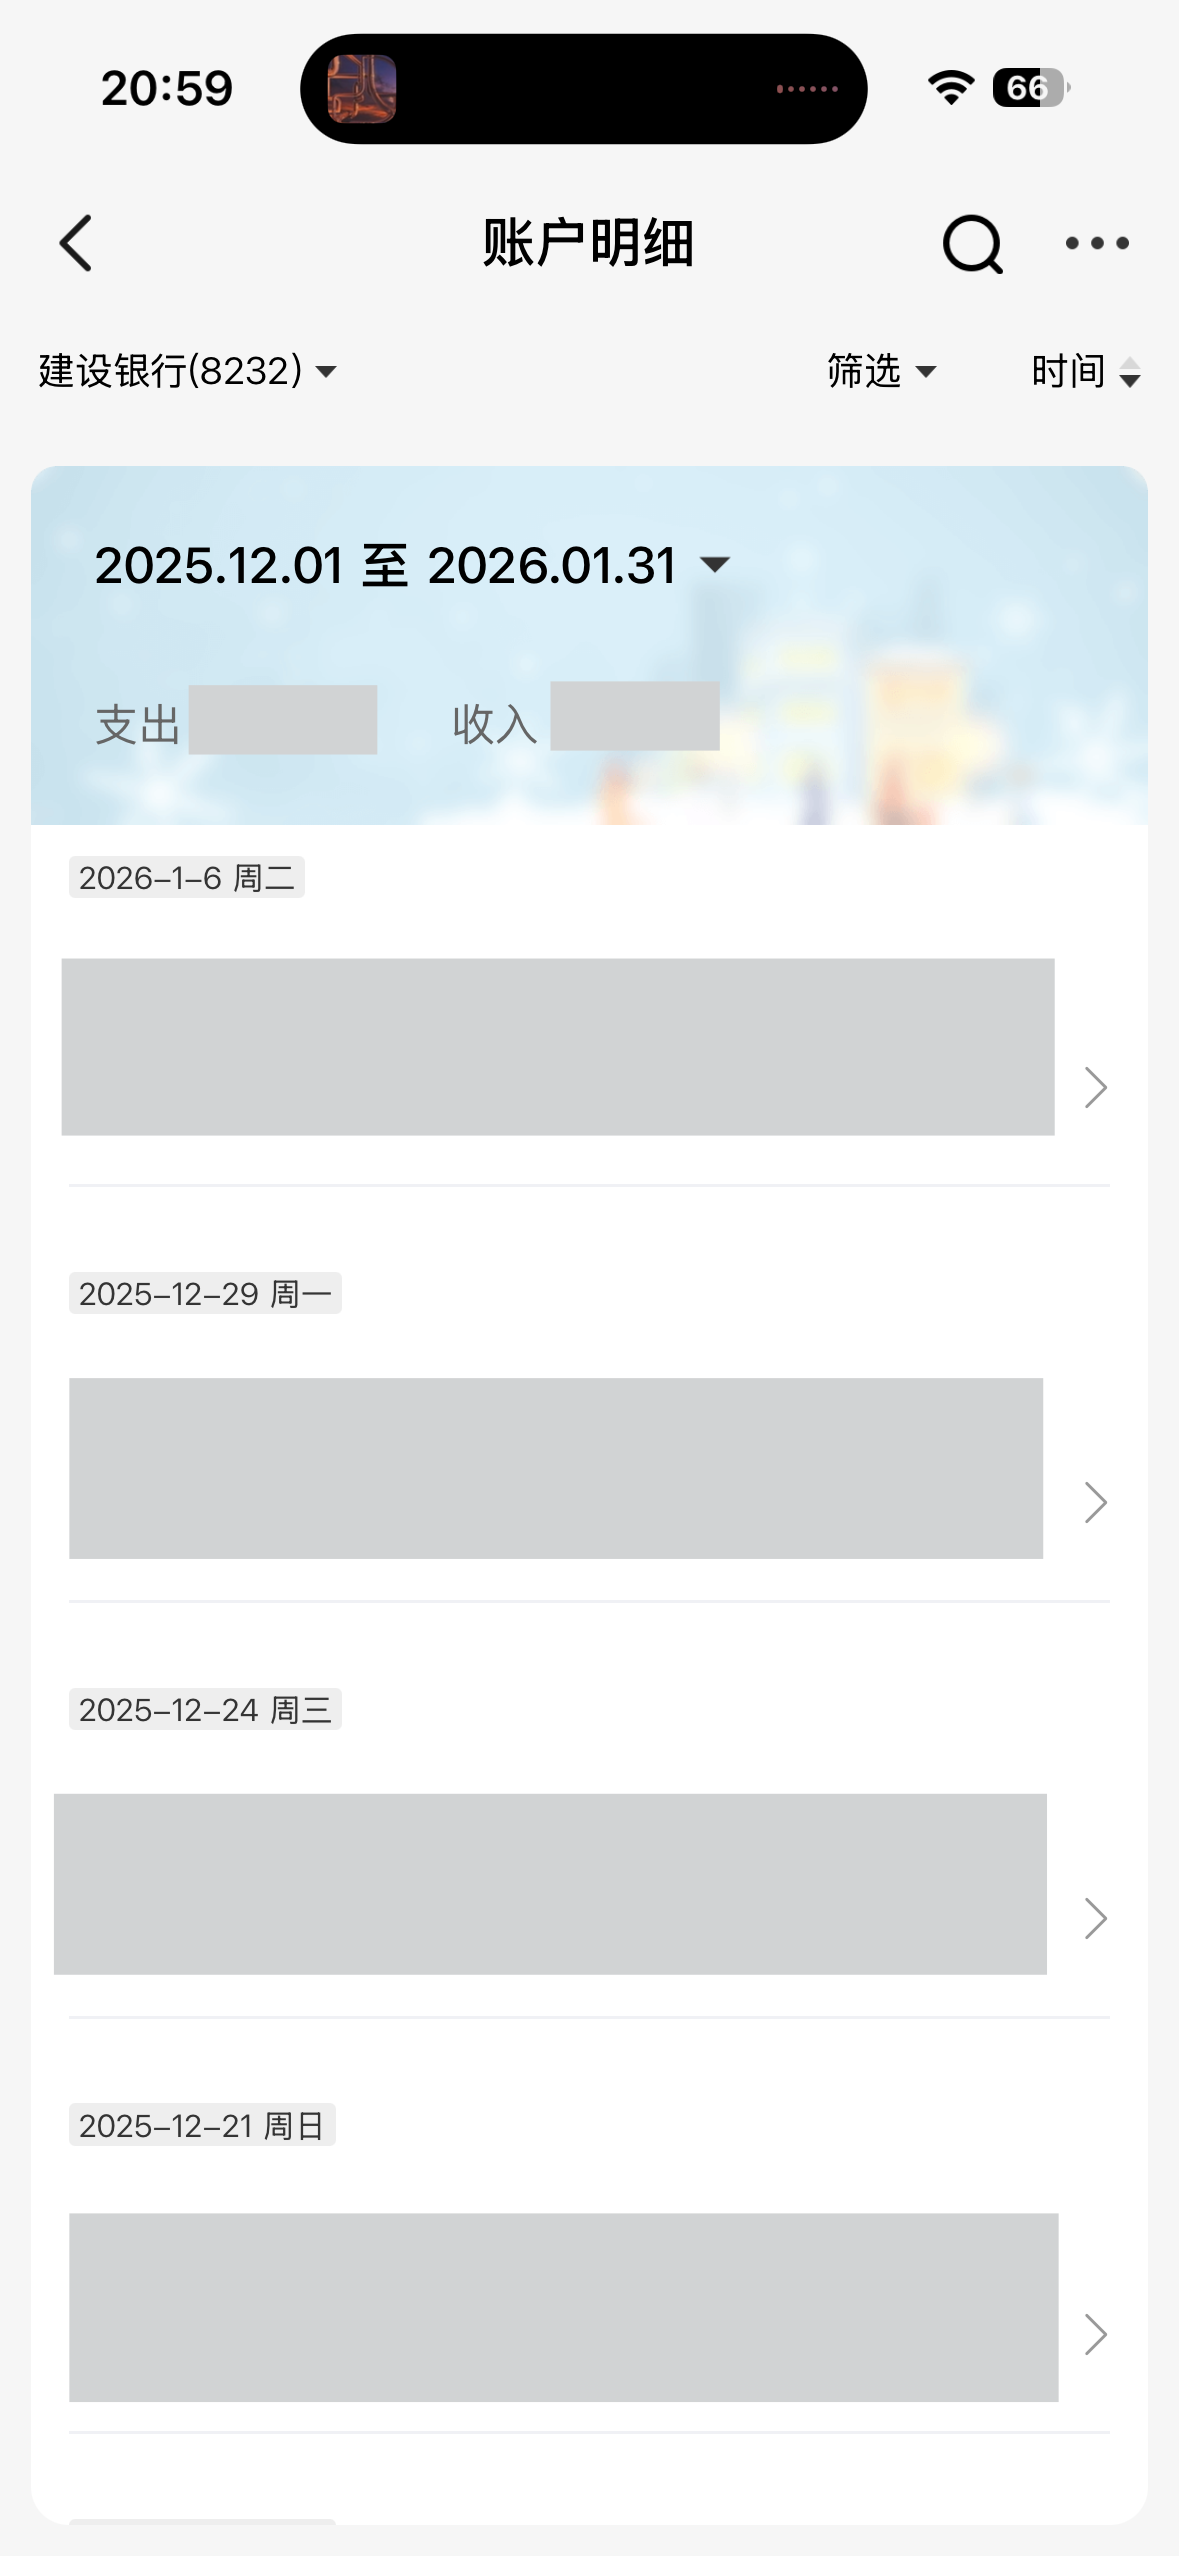
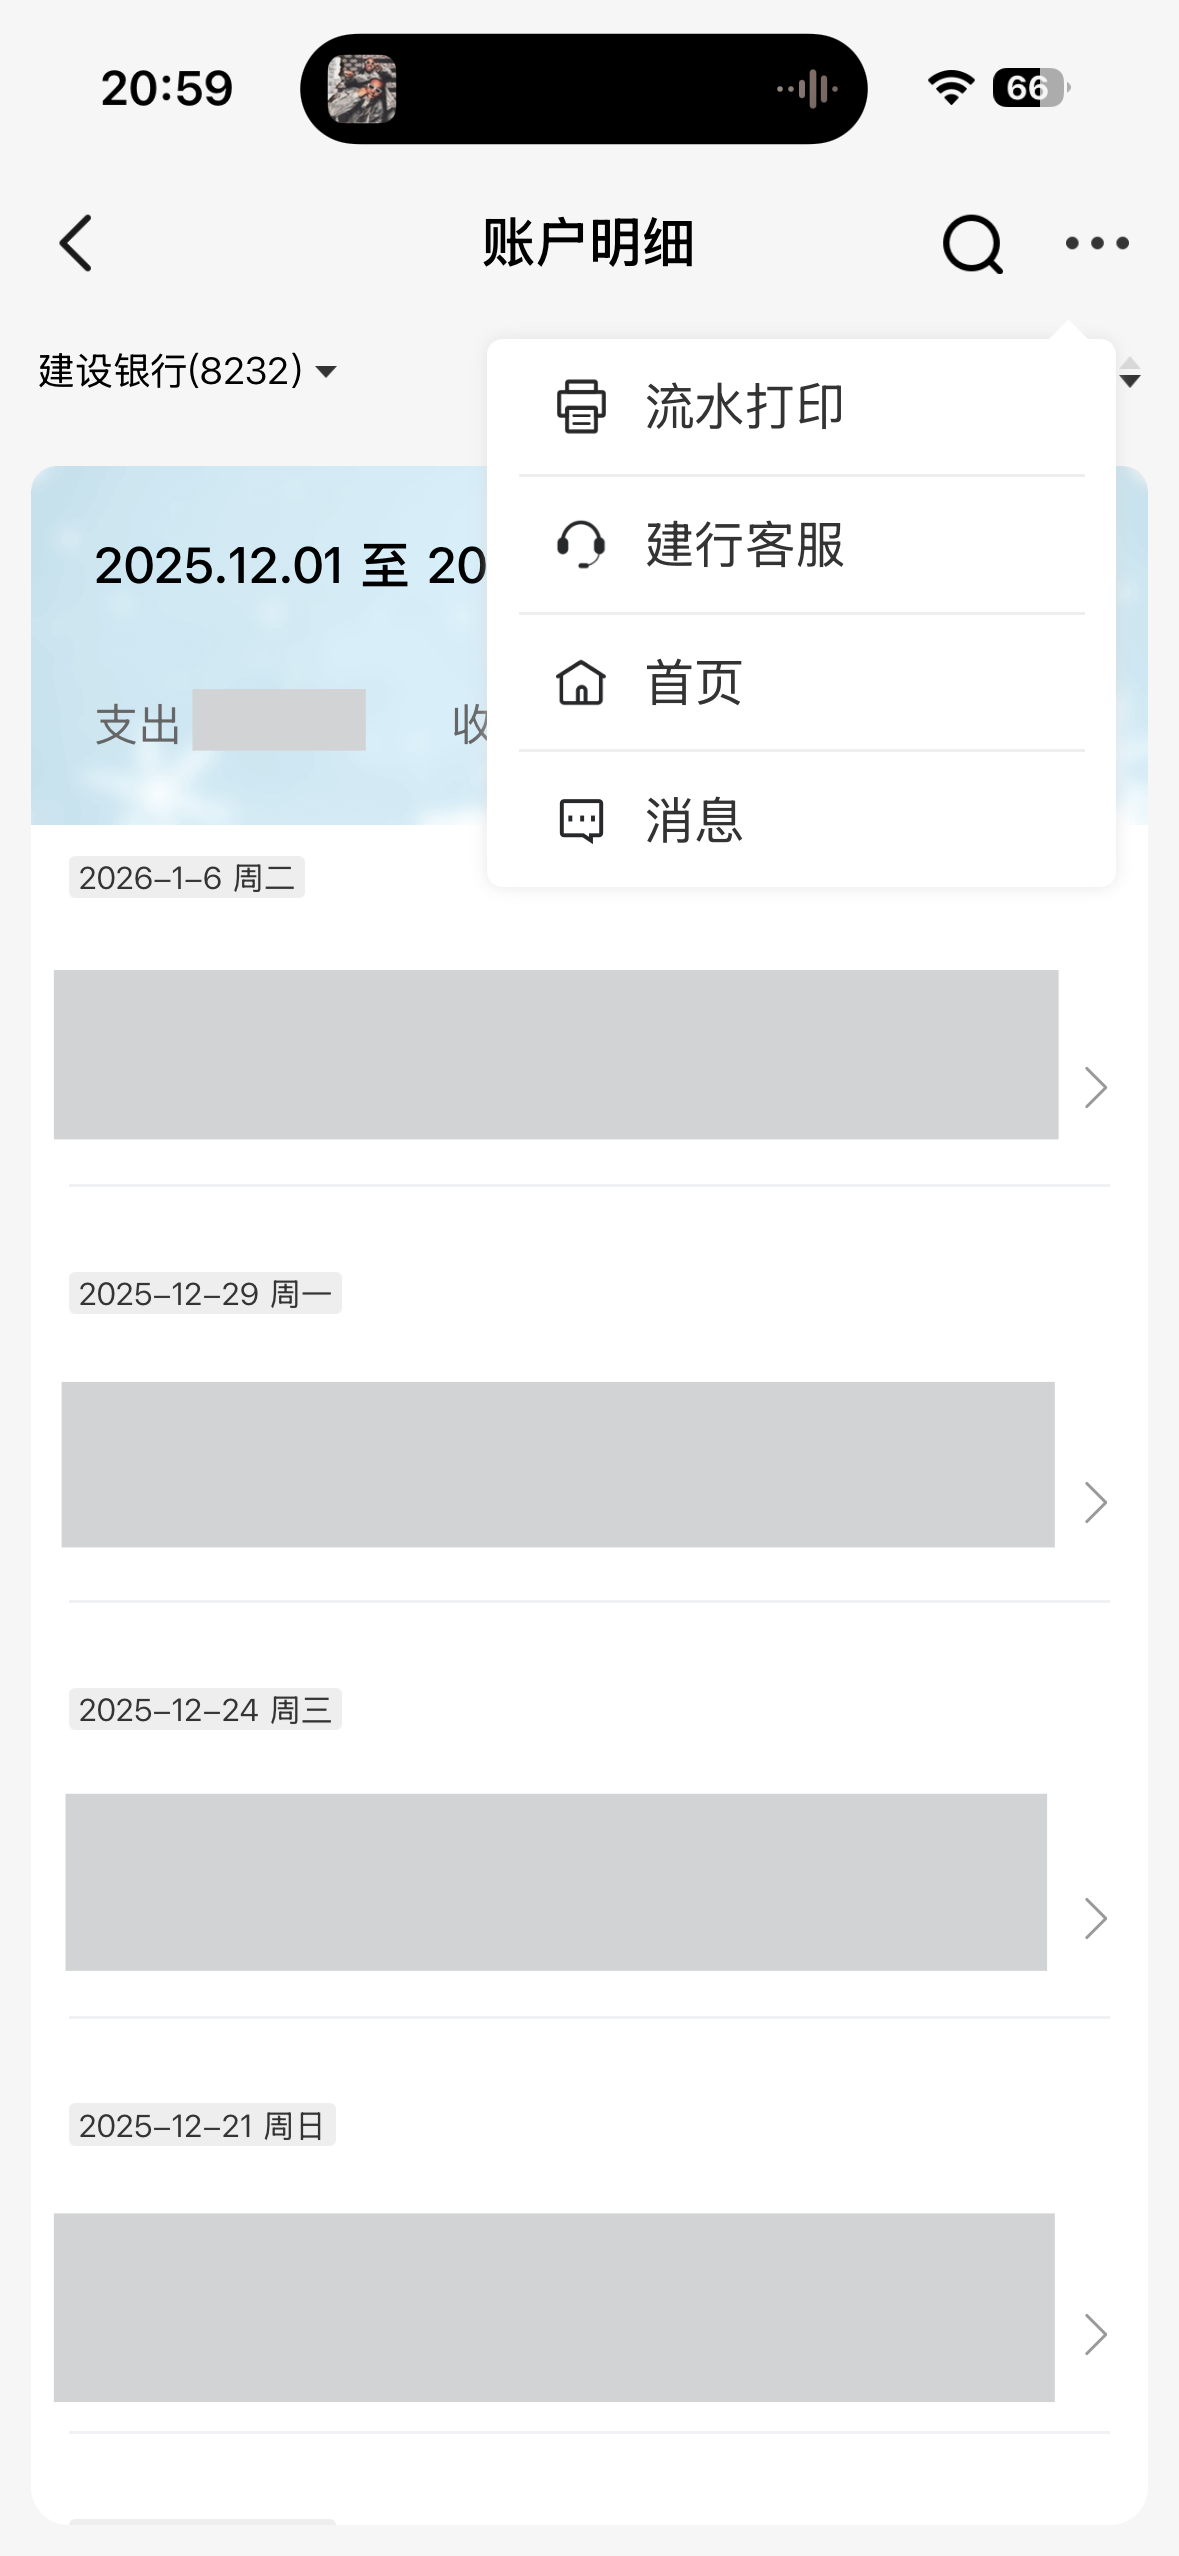
Added all guides

diff --git a/crates/data/bank_statement_parsers/china_construction_bank/README.md b/crates/data/bank_statement_parsers/china_construction_bank/README.md
@@ -3,4 +3,37 @@
 Updated by: Silvio Da Col
 Last update: February 2026
 
+1. Follow the arrow and click on the button:
+
+<img src="./pics/1.png" alt="Image" width="300">
+
+2. Follow the arrow and click on the button:
+
+<img src="./pics/2.png" alt="Image" width="300">
+
+3. Click on the 3-dots menu and select the small printing machine icon:
+
+<img src="./pics/3.png" alt="Image" width="300">
+
+4. Select the city where you opened the account (in my case it is Chengdu):
+
+<img src="./pics/4.png" alt="Image" width="300">
+
+5. Follow the arrow and click on the button:
+
+<img src="./pics/5.png" alt="Image" width="300">
+
+6. Select the range of dates you want to download and click on the button at the bottom:
+
+<img src="./pics/6.png" alt="Image" width="300">
+<img src="./pics/7.png" alt="Image" width="300">
+
+7. Select the format "EXCEL" and click on the button at the bottom:
+
+<img src="./pics/8.png" alt="Image" width="300">
+
+8. Store the code to then be able to unzip the file when you will receive by email:
+
+<img src="./pics/9.png" alt="Image" width="300">
+
 Note: If you see changes in the statement format, please open an issue or a pull request to update this parser.
